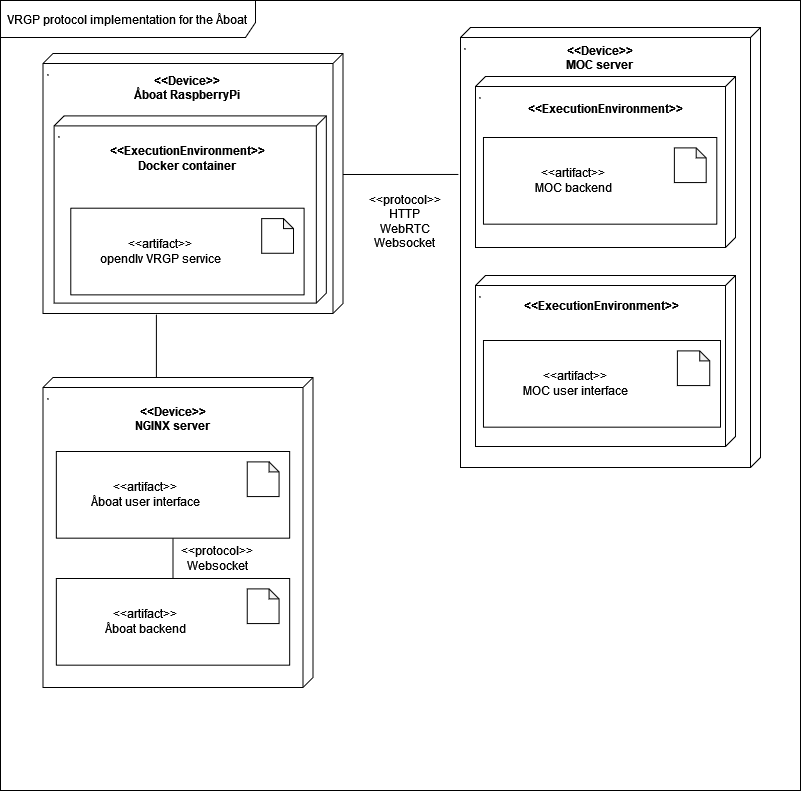
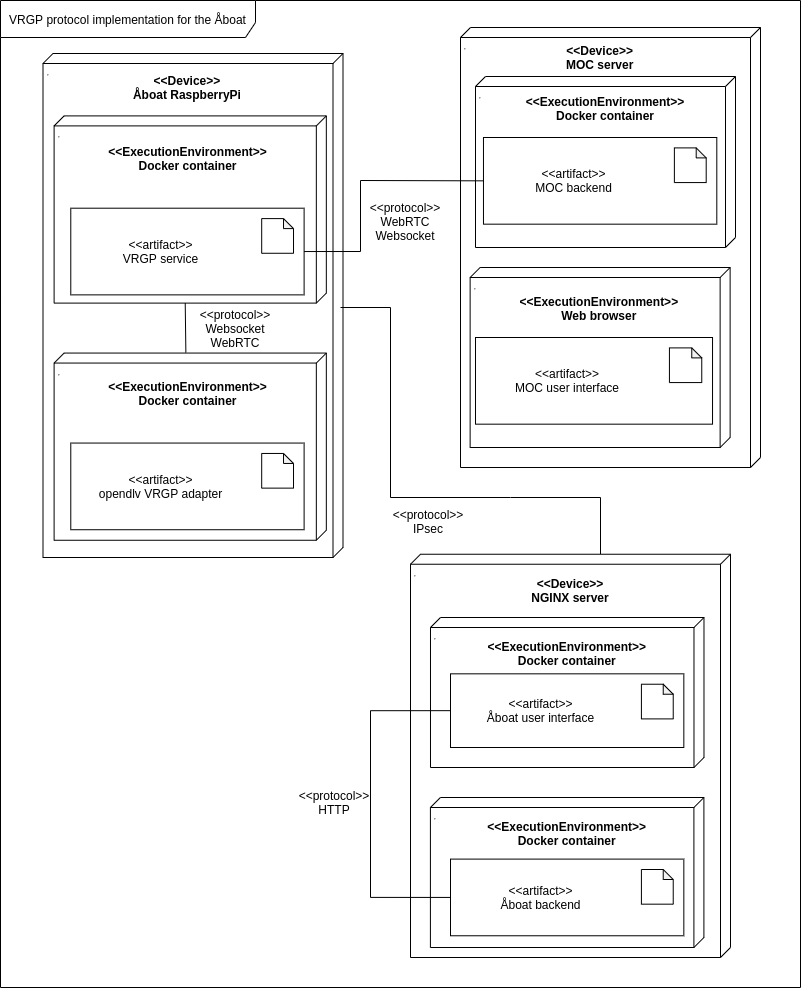
Update design section, add diagrams, rewrite some of the subsections text

diff --git a/documentation/technical-documentation/chapters/design.tex b/documentation/technical-documentation/chapters/design.tex
@@ -2,11 +2,7 @@
 
 The Åboat already has an architecture of its own. The system is already functional (though it has its own communication protocol). What we aim to do is build on top of this architecture.
 \\\\
-Currently, the Åboat has an architecture that consists of microservices. Each of these microservices runs a different “functionality” of the boat. There are microservices for sensors, control, storage, and communication. The current picture of the Åboat architecture can be seen in the image below. Our microservice, the one implementing the VRGP specification and responsible for message exchange with a MOC on the shore, will probably be connected to every other microservice on the boat - especially important are the sensor microservices. As such, the microservice will play an essential role in the architecture of the Åboat.
-\\\\
-Note however, that our microservice will not replace existing communication microservices, but will instead run along with them.
-\\\\
-The microservice will consist of two high level-view modules: one module will be a generic VRGP implementation (not Åboat related), which will take care of the communication with the MOC on the shore, and one module will be in charge of talking with the other microservices on the boat that provide sensor data. The role of the first module will be that of a communicator, while the role of the second module will thus be that of a data aggregator.
+Currently, the Åboat has an architecture that consists of microservices. Each of these microservices runs a different “functionality” of the boat. There are microservices for sensors, control, storage, and communication. The current picture of the Åboat architecture can be seen in the image below.
 
 \begin{figure}[ht]
 	\centering
@@ -15,15 +11,39 @@ The microservice will consist of two high level-view modules: one module will be
 	\label{fig:aboat-architecture}
 \end{figure}
 
+The purpose of the VRGP implementation is to create an independent system implementing the VRGP specification, which will interface with the existing architecture of the Åboat. The interfacing will be achieved through a microservice (called an \textbf{adapter}), which has the sole purpose of translating the calls between the Åboat and the VRGP service. This will make the VRGP service completely independent of the vessel that uses it, thus achieving a good level of decoupling.
+\\\\
+Using the VRGP service with other boats would then be easy, as the only component that would have to be rewritten would be the \textbf{adapter}, which, as mentioned above, is only a small layer that interfaces between the vessel and VRGP service.
+\\\\
+On the shore-side, there is the MOC service, which consists of a backend and frontend. The backend is responsible for the communication with the vessel-side (more specifically, the VRGP service), while the frontend is responsible for displaying the information to (most likely) human operators.
+\\\\
+An image of the current architecture of the VRGP implementation can be seen below.
+
+\begin{figure}[ht]
+	\centering
+	\includegraphics[width=\linewidth]{images/vrgp-architecture}
+	\caption{VRGP architecture}
+	\label{fig:vrgp-architecture}
+\end{figure}
+
+% The adapter microservice communicates with all the other microservices in the 
+% Our microservice, the one implementing the VRGP specification and responsible for message exchange with a MOC on the shore, will probably be connected to every other microservice on the boat - especially important are the sensor microservices. As such, the microservice will play an essential role in the architecture of the Åboat.
+% \\\\
+% Note however, that our microservice will not replace existing communication microservices, but will instead run along with them.
+% \\\\
+% The microservice will consist of two high level-view modules: one module will be a generic VRGP implementation (not Åboat related), which will take care of the communication with the MOC on the shore, and one module will be in charge of talking with the other microservices on the boat that provide sensor data. The role of the first module will be that of a communicator, while the role of the second module will thus be that of a data aggregator.
+
+More details about the components are presented below.
+
 \section{Design}\label{sec:design}
 
-In the following sections, we describe our initial design using several UML diagrams. UML is used for most parts of the design for now, as it provides a well-known, easy to understand and somewhat unambiguous description of the design. For now, the diagrams depict rather high-level views of the system. In further design steps, the diagrams will be refined and more specific diagram types will be added to the design. Before entering the next refinement stage, the design is always presented to and agreed upon with the customers.
+In the following sections, we describe our current design using several UML diagrams. UML is used for most parts of the design for now, as it provides a well-known, easy to understand and somewhat unambiguous description of the design. Some of the diagrams present the high-level views of the system, while others are more in-depth.
 
 \subsection{Static Design}
 
 \subsubsection{Deployment Diagram}
 
-The deployment diagram provides an overview of the different deliverables for this software project and in which environments they can be used. The most important artifact to be delivered is the OpenDLV microservice for the Åboat which is embedded in the Åboat environment. Additionally, an MOC example implementation will be developed to test the VRGP implementation for the Åboat. This consists of a backend and a frontend to make testing easy for us and future users.
+The deployment diagram provides an overview of the different deliverables for this software project and in which environments they can be used. The most important artifact to be delivered is the VRGP service (which is the actual VRGP implementation), while the other deliverables (the OpenDLV adapter, the MOC backend and frontend) are mostly built around the service and aim to show that it works. The deployment diagram is shown in figure \ref{fig:deployment-diagram}.
 
 \begin{figure}[ht]
 	\centering
@@ -32,15 +52,37 @@ The deployment diagram provides an overview of the different deliverables for th
 	\label{fig:deployment-diagram}
 \end{figure}
 
-\subsubsection{Component Diagram}
+\subsubsection{Component Diagrams}
 
-The next step in the design process will be the development of a component diagram for our software. This will divide the software into components, somewhat according to the use cases and requirements (see \ref{sec:func-requirements}), and define which components communicate with each other in what form. The component diagram will be the basis for further, more detailed design steps such as class diagrams.
+The high-level components have been briefly described in the introduction above.
+\\\\
+The most important part of the communication happens between the vessel-side and the shore-side, i.e. between the VRGP service and the MOC. A diagram illustrating this connection can be seen in figure \ref{fig:vrgp-moc-component-diagram}.
+\\\\
+As can be seen, the component diagram mostly follows the requirements outlined above (\ref{sec:func-requirements}).
+\\\\
+Another important part of the communication happens between the VRGP service and the adapter microservice. The communication can be seen in figure \ref{fig:adapter-vrgp-component-diagram}.
+\\\\
+The left side depicts the OpenDLV microservice running the adapter, which will have further communications with the other Åboat microservices.
+
+\begin{figure}[h!]
+	\centering
+	\includegraphics[width=\linewidth]{diagrams/ComponentDiagram_GenericVrgpMicroservice_HandlerView}
+	\caption{VRGP service - MOC component diagram}
+	\label{fig:vrgp-moc-component-diagram}
+\end{figure}
+
+\begin{figure}[h!]
+	\centering
+	\includegraphics[width=\linewidth]{diagrams/components_adapter}
+	\caption{Åboat adapter - VRGP service component diagram}
+	\label{fig:adapter-vrgp-component-diagram}
+\end{figure}
 
 \subsection{Dynamic Design}\label{sec:dynamic-design}
 
 \subsubsection{Activity Diagram}
 
-This high-level activity diagram provides an overview of the general communication flow in the VRGP protocol, including the connection establishment and authentication, the messages that can be sent continuously while the connection is up and the termination of the connection. In further steps, this diagram will either be refined to account for more details of the protocol or split into multiple activity diagrams to depict the different processes in more detail.
+This high-level activity diagram (figure \ref{fig:activity-diagram}) provides an overview of the general communication flow in the VRGP protocol, including the connection establishment and authentication, the messages that can be sent continuously while the connection is up and the termination of the connection. In further steps, this diagram will either be refined to account for more details of the protocol or split into multiple activity diagrams to depict the different processes in more detail.
 
 \begin{figure}[ht]
 	\centering
